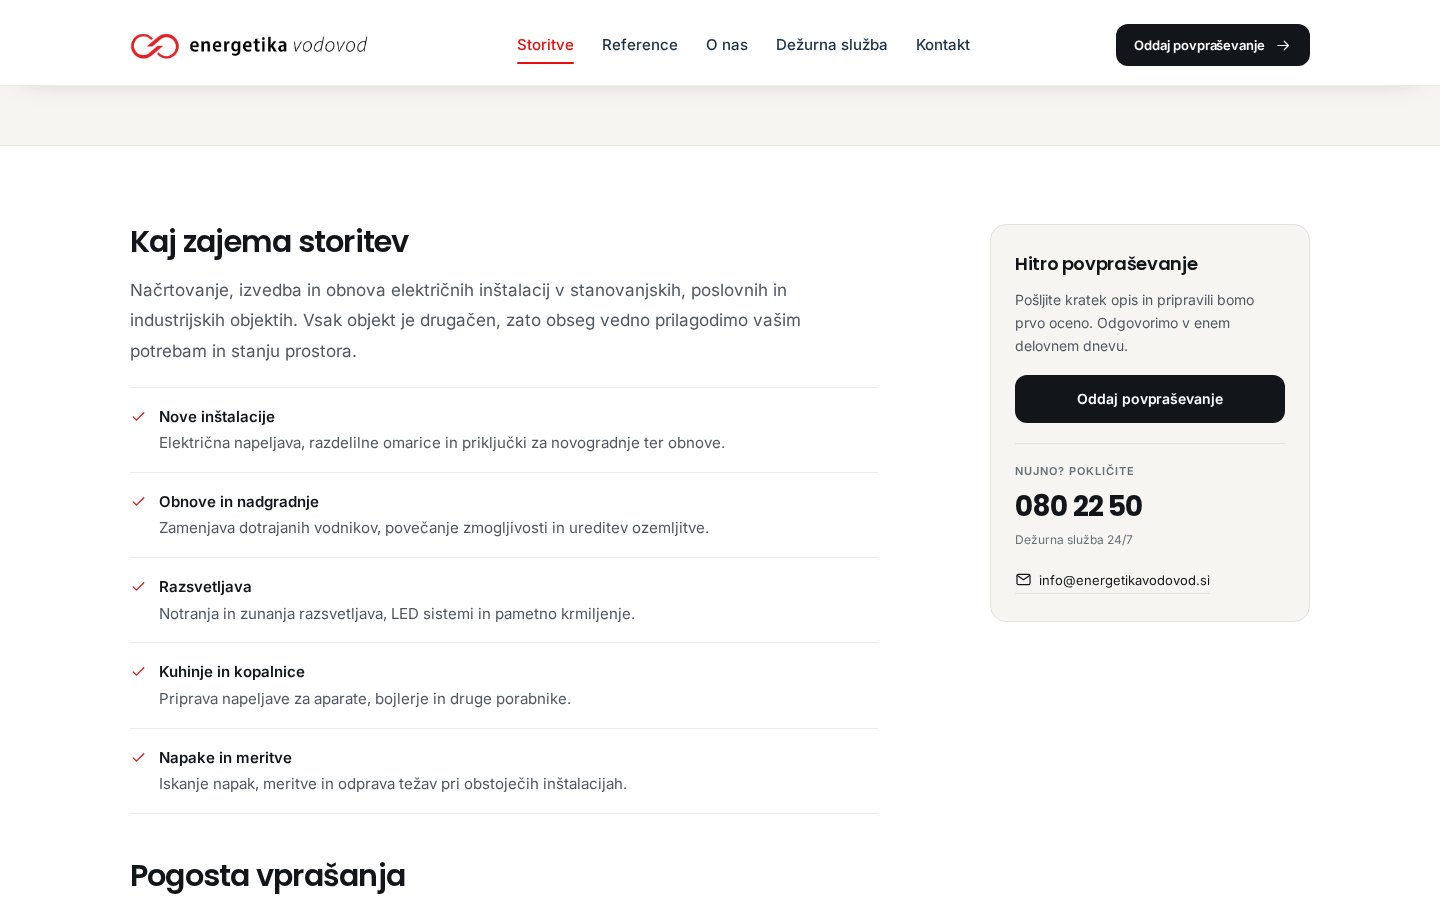
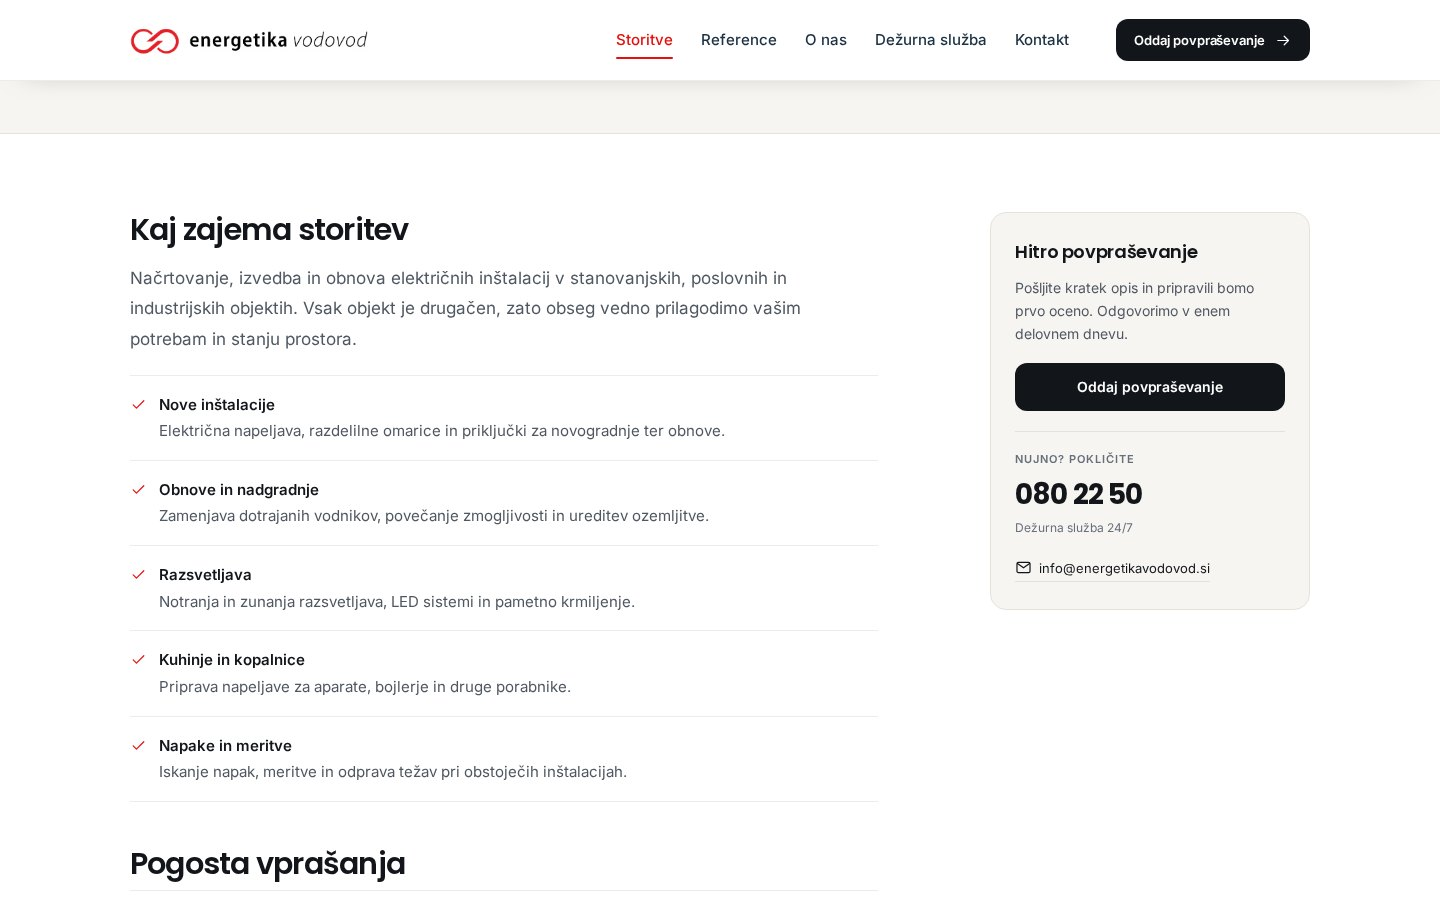
Fix header navigation wrapping and align nav with CTA

diff --git a/assets/css/style.css b/assets/css/style.css
@@ -352,12 +352,16 @@ fieldset { margin: 0; padding: 0; border: 0; }
 
 .nav {
   display: flex;
+  flex-wrap: nowrap;
   align-items: center;
   gap: 2px;
-  margin-inline: auto;
+  margin-left: auto;
+  margin-right: 10px;
 }
 .nav__link {
   position: relative;
+  flex: none;
+  white-space: nowrap;
   padding: 10px 13px;
   font-size: .875rem;
   font-weight: 500;
@@ -1608,7 +1612,7 @@ fieldset { margin: 0; padding: 0; border: 0; }
   .emergency-bar__meta { display: none; }
 }
 
-@media (max-width: 1120px) {
+@media (max-width: 1200px) {
   body.nav-open::before {
     content: "";
     position: fixed;
@@ -1635,10 +1639,11 @@ fieldset { margin: 0; padding: 0; border: 0; }
   .nav__link { padding: 13px 12px; font-size: .9375rem; border-bottom: 1px solid var(--line-soft); border-radius: 0; }
   .nav__link::after { display: none; }
   .nav-toggle { display: inline-flex; }
-  .site-header { position: sticky; }
   .header__inner { justify-content: space-between; }
   .header__actions { margin-left: auto; }
+}
 
+@media (max-width: 1120px) {
   .hero__inner { grid-template-columns: 1fr; gap: 44px; }
   .hero__copy { max-width: 44rem; }
   .hero__lead { max-width: 36rem; }

diff --git a/assets/js/main.js b/assets/js/main.js
@@ -83,7 +83,7 @@
     });
 
     window.addEventListener('resize', () => {
-      if (window.innerWidth > 1120 && nav.classList.contains('is-open')) closeNav();
+      if (window.innerWidth > 1200 && nav.classList.contains('is-open')) closeNav();
     });
   }
 
